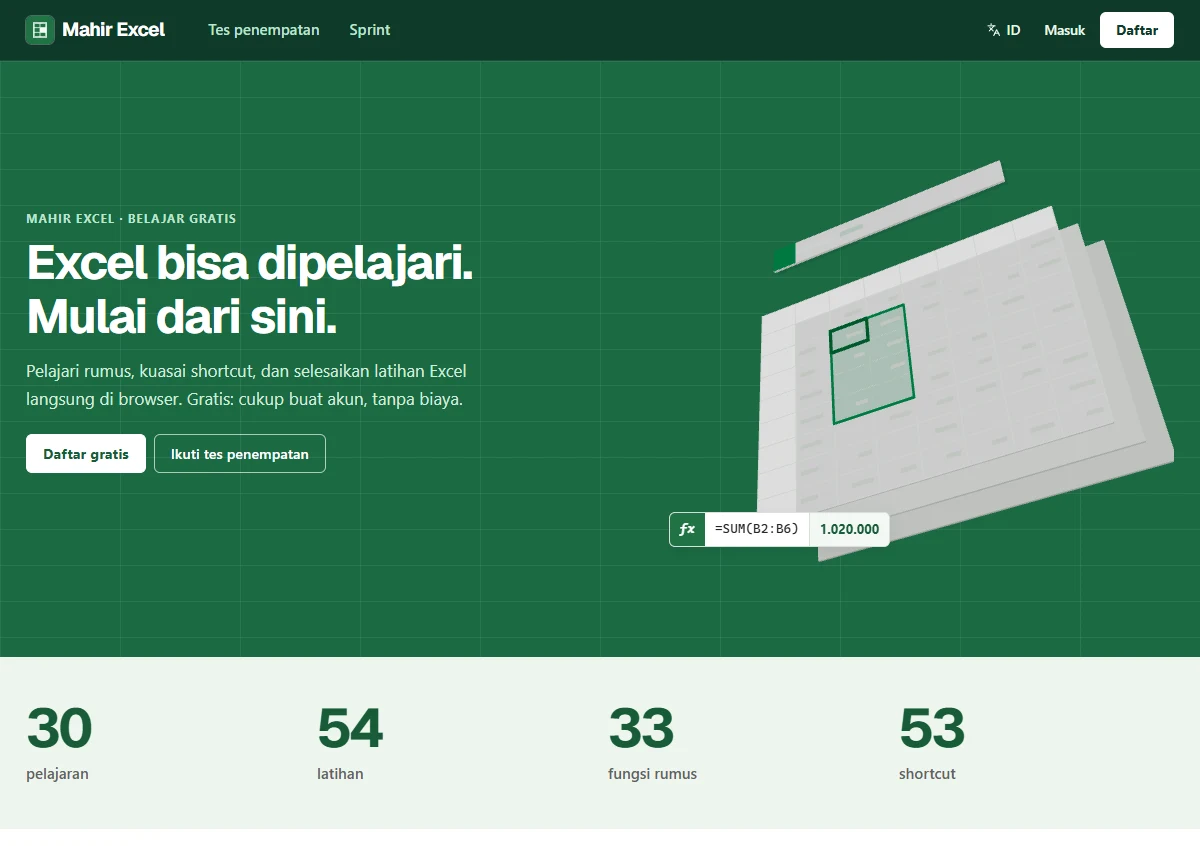
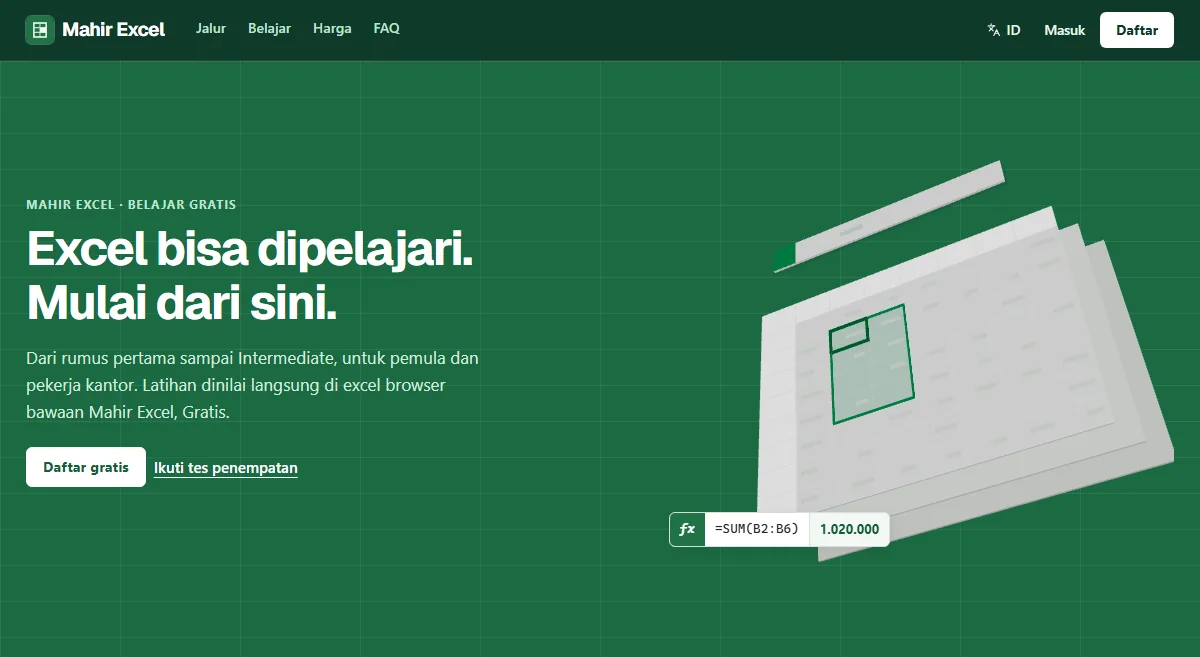
Feature Mahir Excel and Anagram Project first, refresh Mahir Excel image

diff --git a/src/components/ProjectsSection.jsx b/src/components/ProjectsSection.jsx
@@ -5,13 +5,13 @@ import { projects, projectFilters } from '../data/portfolioData';
 import DistortImage from './DistortImage';
 import ProjectDialog from './ProjectDialog';
 
-// Bento order and sizing. Row 1: one wide + one narrow, row 2: three equal.
+// Bento order and sizing. Row 1: the two flagship projects (one wide + one narrow), row 2: three equal.
 const FEATURED = [
-  { id: 'anagram-project', span: 'md:col-span-4', height: 'md:h-[360px]', label: 'Current focus' },
-  { id: 'si-caput', span: 'md:col-span-2', height: 'md:h-[360px]', alignX: 0 },
+  { id: 'mahir-excel', span: 'md:col-span-4', height: 'md:h-[360px]' },
+  { id: 'anagram-project', span: 'md:col-span-2', height: 'md:h-[360px]', label: 'Current focus' },
+  { id: 'si-caput', span: 'md:col-span-2', height: 'md:h-[240px]', alignX: 0 },
   { id: 'football-player-clustering', span: 'md:col-span-2', height: 'md:h-[240px]' },
   { id: 'taksir-rumah', span: 'md:col-span-2', height: 'md:h-[240px]' },
-  { id: 'mahir-excel', span: 'md:col-span-2', height: 'md:h-[240px]' },
 ];
 
 const featuredIds = new Set(FEATURED.map((f) => f.id));
